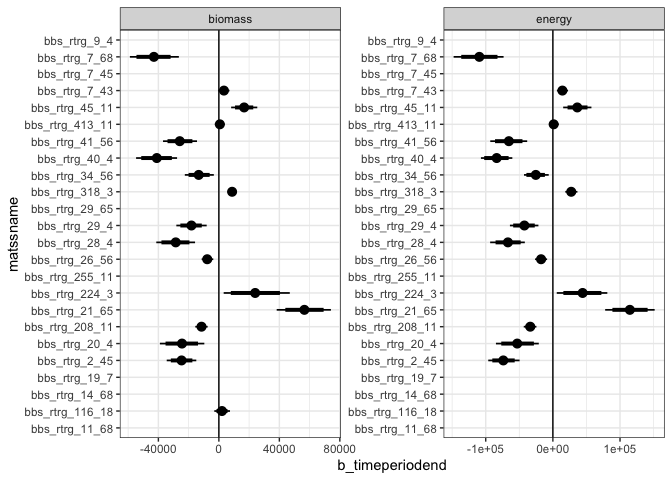
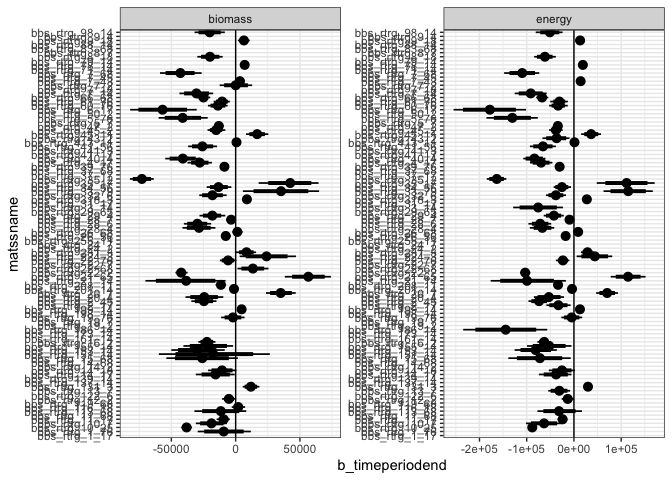
ok looked at 100 sites and I think time to run for all.

Changed region(s): [[0.0312, 0.0625, 1.0, 0.9688]]

diff --git a/aspirational_structure/results/results_reports/model_tallies.md b/aspirational_structure/results/results_reports/model_tallies.md
@@ -13,33 +13,20 @@ all_winners %>%
 
 | simtype      | currency | model             | count |
 | :----------- | :------- | :---------------- | ----: |
-| actual       | biomass  | tb\_brm\_full     |    11 |
-| actual       | biomass  | tb\_brm\_nosource |     6 |
-| actual       | biomass  | tb\_brm\_notime   |     7 |
-| actual       | energy   | te\_brm\_full     |     7 |
-| actual       | energy   | te\_brm\_nosource |     9 |
-| actual       | energy   | te\_brm\_notime   |     8 |
-| nochange     | biomass  | tb\_brm\_notime   |    24 |
-| nochange     | energy   | te\_brm\_notime   |    24 |
-| nosizechange | biomass  | tb\_brm\_nosource |    15 |
-| nosizechange | biomass  | tb\_brm\_notime   |     9 |
-| nosizechange | energy   | te\_brm\_nosource |    15 |
-| nosizechange | energy   | te\_brm\_notime   |     9 |
+| actual       | biomass  | tb\_brm\_full     |    31 |
+| actual       | biomass  | tb\_brm\_nosource |    31 |
+| actual       | biomass  | tb\_brm\_notime   |    38 |
+| actual       | energy   | te\_brm\_full     |    17 |
+| actual       | energy   | te\_brm\_nosource |    45 |
+| actual       | energy   | te\_brm\_notime   |    38 |
+| nochange     | biomass  | tb\_brm\_notime   |   100 |
+| nochange     | energy   | te\_brm\_notime   |   100 |
+| nosizechange | biomass  | tb\_brm\_nosource |    58 |
+| nosizechange | biomass  | tb\_brm\_notime   |    42 |
+| nosizechange | energy   | te\_brm\_nosource |    60 |
+| nosizechange | energy   | te\_brm\_notime   |    40 |
 
 </div>
-
-From 24 sites…
-
-  - 7 (for biomass) and 8 (for energy) models don’t pick up on any
-    difference begin-end
-  - 11 (for biomass) and 7 (for energy) models pick up on *different*
-    dynamics for the currency than if the size structure were more or
-    less replicated.
-  - Biomass picks up on an interaction more often than energy.
-  - These tallies don’t tell us how often the abundance slope is nonzero
-    in the full models
-
-<!-- end list -->
 
 ``` r
 actual_qis <- all_qis %>% 
@@ -49,9 +36,9 @@ actual_qis_95 <- filter(actual_qis, .width == .95)
 ggplot(actual_qis, aes(b_timeperiodend, matssname)) + geom_pointinterval(aes(xmin = b_timeperiodend.lower, xmax = b_timeperiodend.upper, width = .width)) + geom_vline(xintercept = 0) + facet_wrap(vars(currency), scales = "free")
 ```
 
-    ## Warning: Removed 14 rows containing missing values (geom_segment).
-
-    ## Warning: Removed 16 rows containing missing values (geom_segment).
+    ## Warning: Removed 76 rows containing missing values (geom_segment).
+    
+    ## Warning: Removed 76 rows containing missing values (geom_segment).
 
 ![](model_tallies_files/figure-gfm/unnamed-chunk-2-1.png)<!-- -->
 
@@ -67,8 +54,8 @@ actual_qis_95 %>%
 
 | currency | percent\_with\_slope |
 | :------- | -------------------: |
-| biomass  |            0.7083333 |
-| energy   |            0.6666667 |
+| biomass  |                 0.62 |
+| energy   |                 0.62 |
 
 </div>
 
@@ -78,15 +65,16 @@ Of models with a slope…
 actual_qis_95 %>%
   group_by(currency) %>%
   summarize(percent_decreasing = mean(b_timeperiodend.upper < 0, na.rm = T),
-            percent_increasing = mean(b_timeperiodend.lower > 0, na.rm = T))
+            percent_increasing = mean(b_timeperiodend.lower > 0, na.rm = T),
+            n_with_slope = sum(!is.na(b_timeperiodend)))
 ```
 
 <div class="kable-table">
 
-| currency | percent\_decreasing | percent\_increasing |
-| :------- | ------------------: | ------------------: |
-| biomass  |           0.5882353 |           0.2941176 |
-| energy   |           0.6250000 |           0.3125000 |
+| currency | percent\_decreasing | percent\_increasing | n\_with\_slope |
+| :------- | ------------------: | ------------------: | -------------: |
+| biomass  |           0.6290323 |           0.2258065 |             62 |
+| energy   |           0.7096774 |           0.2258065 |             62 |
 
 </div>
 
@@ -106,8 +94,8 @@ actual_qis_95 %>%
 
 | currency | percent\_interaction |
 | :------- | -------------------: |
-| biomass  |            0.4583333 |
-| energy   |            0.2916667 |
+| biomass  |                 0.31 |
+| energy   |                 0.17 |
 
 </div>
 
@@ -117,15 +105,16 @@ Of models with an interaction…
 actual_qis_95 %>%
   group_by(currency) %>%
   summarize(percent_currency_above_abund = mean((`b_timeperiodend:sourcecurrency.lower` >0), na.rm = T),
-            percent_currency_below_abund = mean((`b_timeperiodend:sourcecurrency.upper` <0), na.rm = T))
+            percent_currency_below_abund = mean((`b_timeperiodend:sourcecurrency.upper` <0), na.rm = T),
+            n_with_interaction = sum(!is.na(`b_timeperiodend:sourcecurrency`)))
 ```
 
 <div class="kable-table">
 
-| currency | percent\_currency\_above\_abund | percent\_currency\_below\_abund |
-| :------- | ------------------------------: | ------------------------------: |
-| biomass  |                       0.7272727 |                       0.2727273 |
-| energy   |                       0.5714286 |                       0.4285714 |
+| currency | percent\_currency\_above\_abund | percent\_currency\_below\_abund | n\_with\_interaction |
+| :------- | ------------------------------: | ------------------------------: | -------------------: |
+| biomass  |                       0.8064516 |                       0.1935484 |                   31 |
+| energy   |                       0.7058824 |                       0.2941176 |                   17 |
 
 </div>
 

diff --git a/aspirational_structure/results/results_reports/diagnostics_check.md b/aspirational_structure/results/results_reports/diagnostics_check.md
@@ -1,0 +1,104 @@
+Diagnostic checks
+================
+
+Run this before you interpret results of new models.
+
+Guided in part by
+<https://mc-stan.org/bayesplot/articles/visual-mcmc-diagnostics.html>.
+
+``` r
+long_diagnostics <- all_diagnostics %>%
+  tidyr::pivot_longer(-c(model, currency, matssname, simtype), names_to = "par", values_to = "val") %>%
+  mutate(is_neff = grepl("neff", par),
+         is_rhat = grepl("rhat", par),
+         is_div = grepl("div", par))
+```
+
+## neff
+
+Really problematic is \<.1
+
+``` r
+ggplot(filter(long_diagnostics, is_neff), aes(val)) + geom_density() + facet_wrap(vars(par), scales = "free")
+```
+
+    ## Warning: Removed 3000 rows containing non-finite values (stat_density).
+
+![](diagnostics_check_files/figure-gfm/unnamed-chunk-2-1.png)<!-- -->
+
+Here is how many \< .5:
+
+``` r
+nrow(long_diagnostics %>%
+  filter(is_neff) %>%
+  filter(val < .5))
+```
+
+    ## [1] 0
+
+## Rhat
+
+Convergence is close to 1, higher is bad.
+
+``` r
+ggplot(filter(long_diagnostics, is_rhat), aes(val)) + geom_density() + facet_wrap(vars(par), scales = "free")
+```
+
+    ## Warning: Removed 3000 rows containing non-finite values (stat_density).
+
+![](diagnostics_check_files/figure-gfm/unnamed-chunk-4-1.png)<!-- -->
+
+Here is how many rhats (of any parameter) are greater than…(The ref I
+found flags things \> 1.05 at minimum.)
+
+1.05:
+
+``` r
+nrow(long_diagnostics %>%
+  filter(is_rhat) %>%
+  filter(val > 1.05))
+```
+
+    ## [1] 0
+
+1.01:
+
+``` r
+nrow(long_diagnostics %>%
+  filter(is_rhat) %>%
+  filter(val > 1.01))
+```
+
+    ## [1] 0
+
+1.005:
+
+``` r
+nrow(long_diagnostics %>%
+  filter(is_rhat) %>%
+  filter(val > 1.005))
+```
+
+    ## [1] 0
+
+1.001:
+
+``` r
+nrow(long_diagnostics %>%
+  filter(is_rhat) %>%
+  filter(val > 1.001))
+```
+
+    ## [1] 489
+
+## divergent transitions
+
+Here is how many models with any divergent transitions post warmup:
+
+``` r
+nrow(long_diagnostics %>%
+       filter(is_div) %>%
+       filter(val > 0)) 
+```
+
+    ## [1] 0
